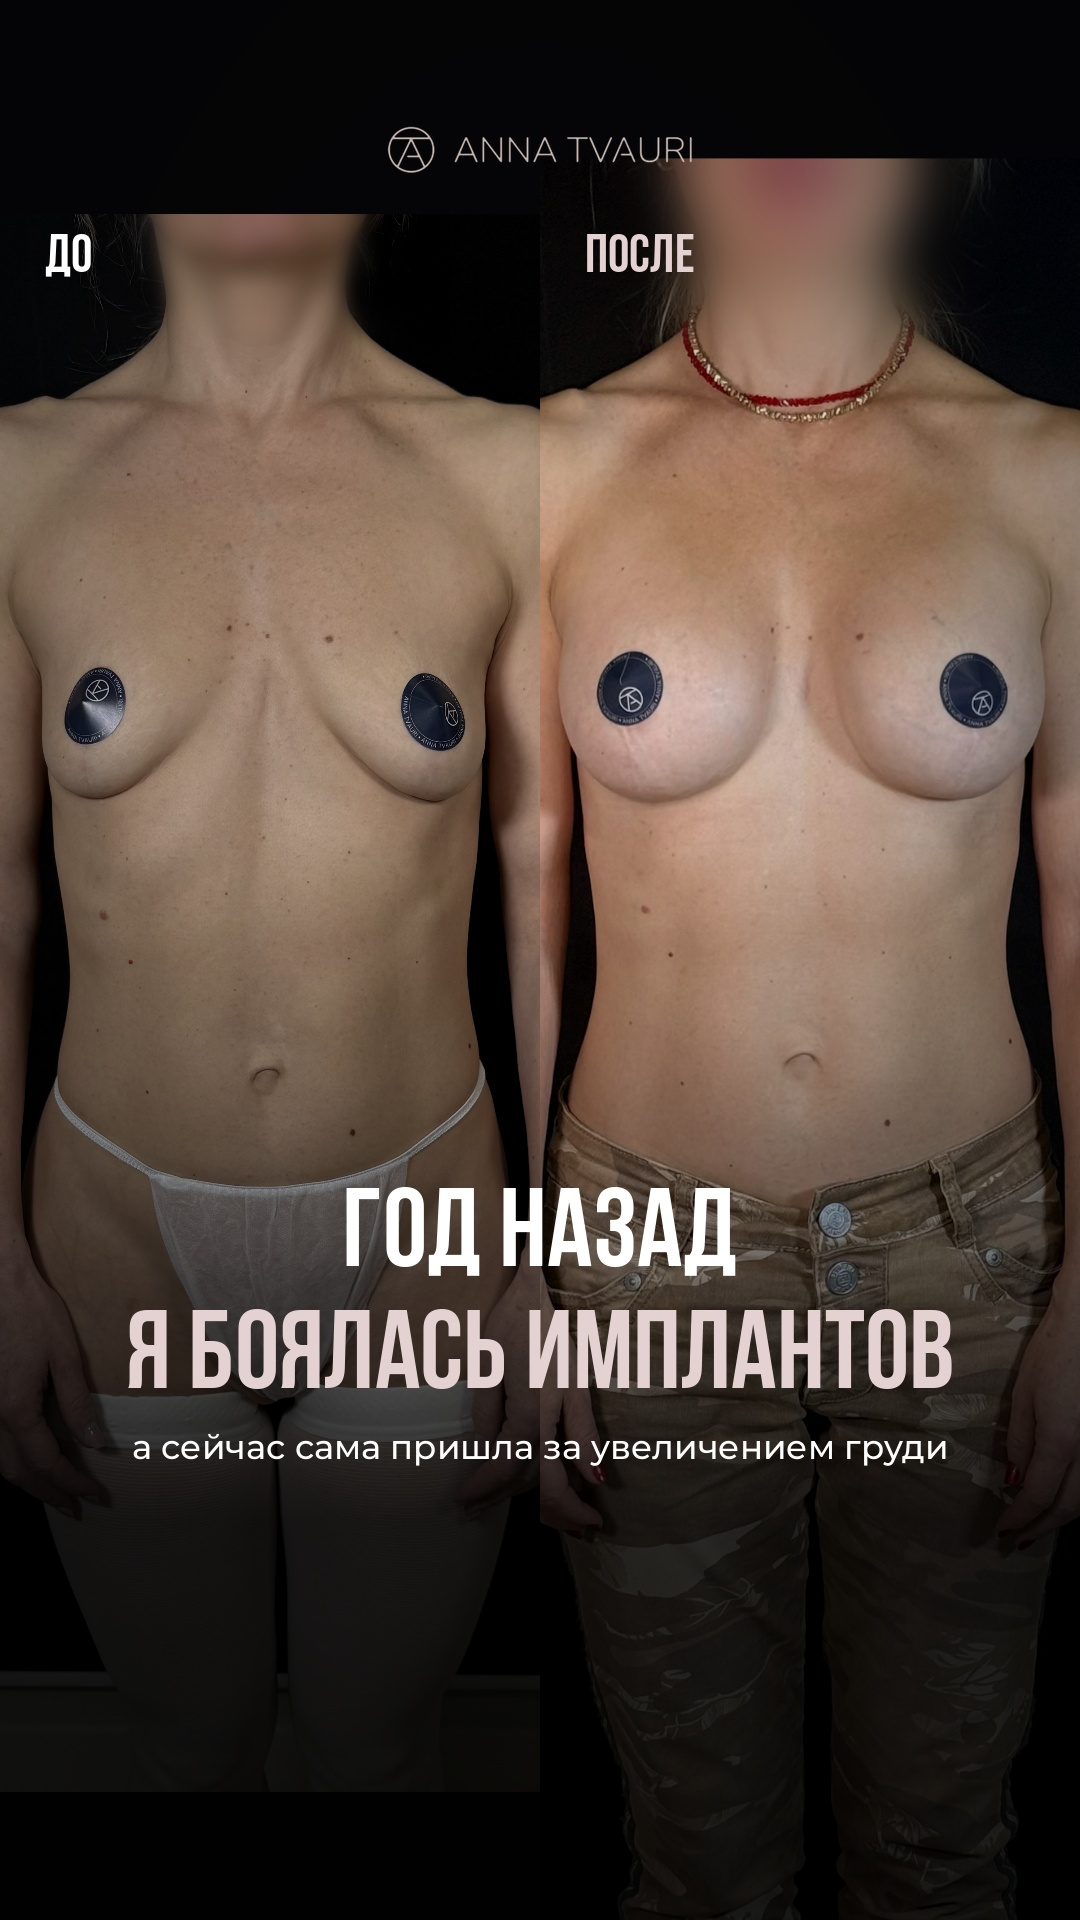
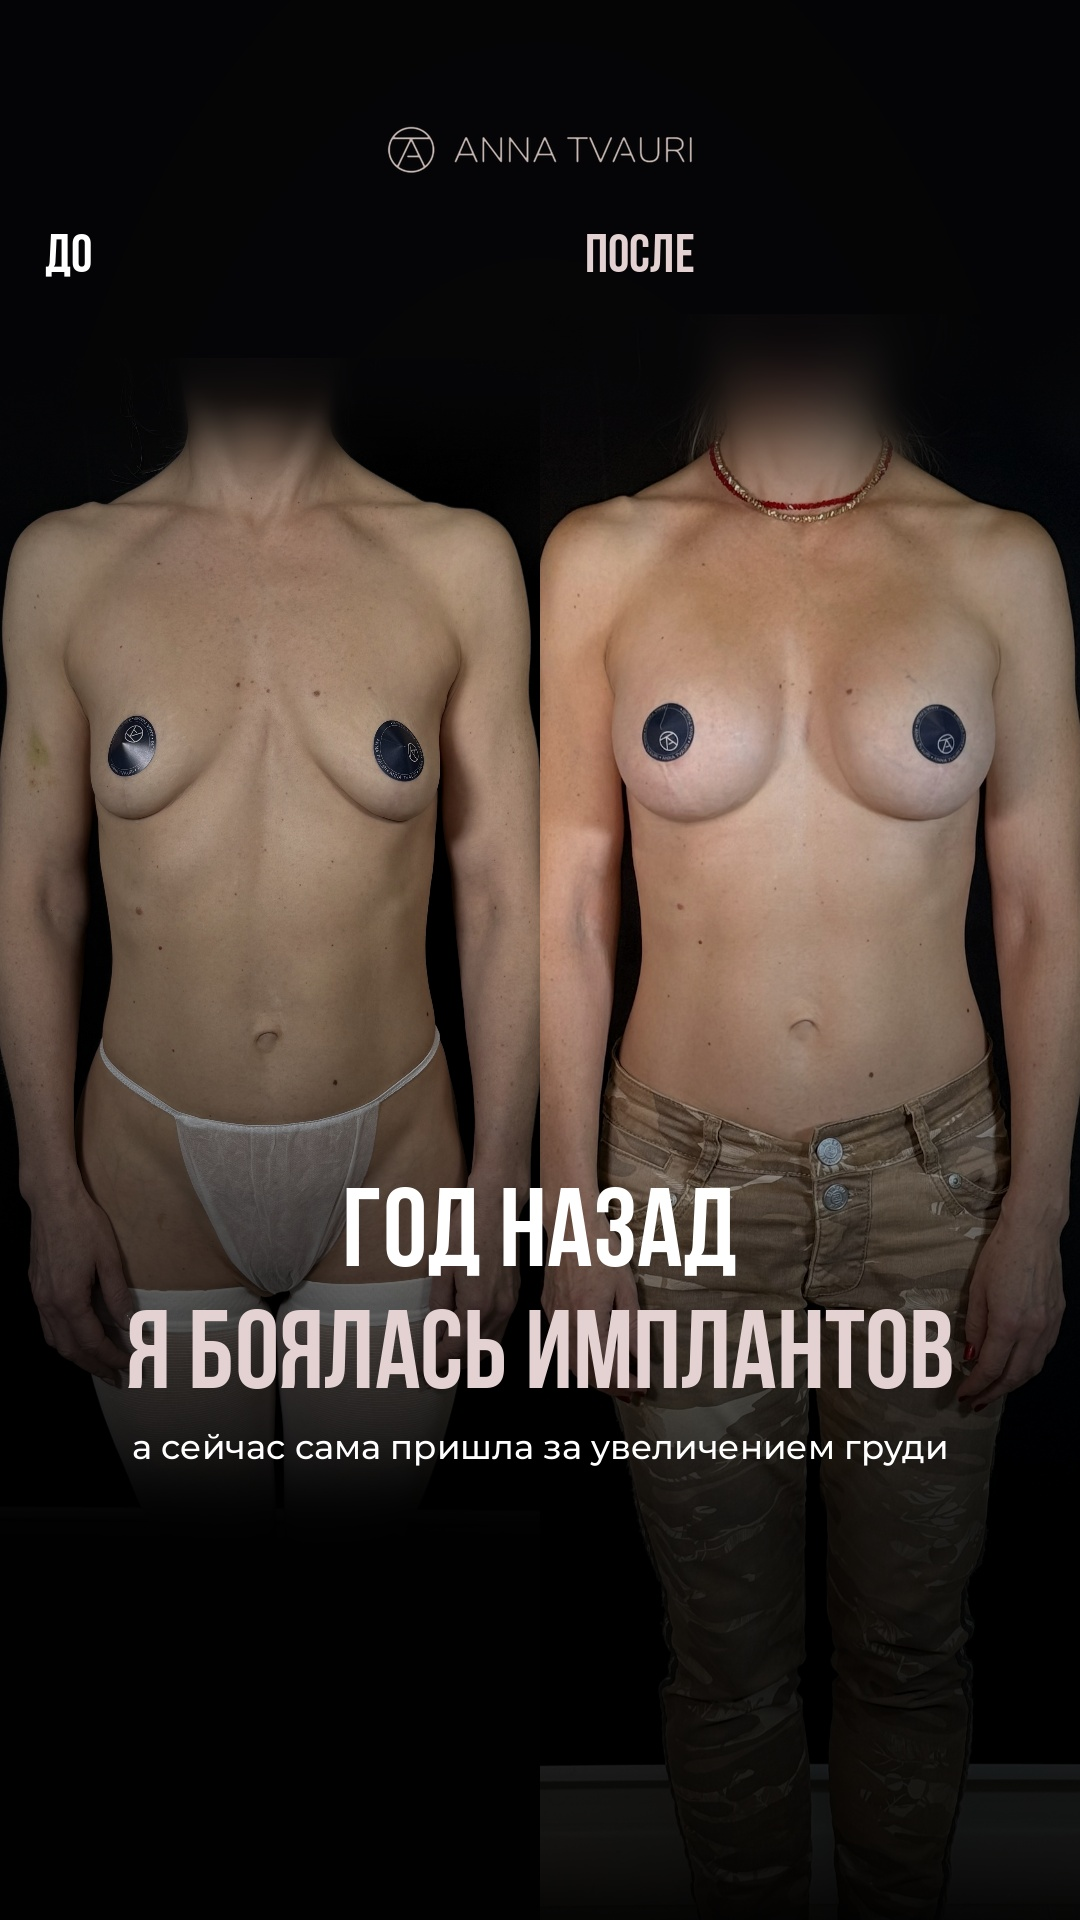
Cover: zoomed out so more of the body is visible
Claude-Session: https://claude.ai/code/session_01WwhZiMgoJM3MQocuuEgczm

diff --git a/tools/reel_lipo_to_implants_cover.py b/tools/reel_lipo_to_implants_cover.py
@@ -1,7 +1,12 @@
 exec(open("reel.py").read().split('if __name__ == "__main__":')[0])
 TCV = Title([("ГОД НАЗАД", "H"), ("Я БОЯЛАСЬ ИМПЛАНТОВ", "P"), ("а сейчас сама пришла за увеличением груди", "S")], 112)
 DEFER[0] = True; PENDING.clear(); LIGHT[0] = False
-a_ = body_view(BF["f"], SHO[("B", "f")], 520, 470, (540, H)); b_ = body_view(AF["f"], SHO[("A", "f")], 520, 470, (540, H))
+def soft(img, sh):
+    h, w = img.shape[:2]; m = np.zeros((h, w), np.uint8); bd = int(h * 0.06); m[bd:h - int(h * 0.1), :] = 255
+    m = cv2.GaussianBlur(m, (0, 0), h * 0.03); mm = np.repeat(m[..., None], 3, 2)
+    return body_view(img, sh, 410, 560, (540, H)), body_view(mm, sh, 410, 560, (540, H))[..., :1]
+(a_, ma), (b_, mb) = soft(BF["f"], SHO[("B", "f")]), soft(AF["f"], SHO[("A", "f")])
+bgc = np.float32([16, 16, 18]) / 255; a_ = a_ * ma + bgc * (1 - ma); b_ = b_ * mb + bgc * (1 - mb)
 fr = np.concatenate([a_, b_], 1); fr = look(fr, 99); fr = fr * (1 - HAZE)
 chip(fr, CH_DO, 40, 228, 9, 0); chip(fr, CH_PO, 580, 228, 9, 0)
 TCV.draw(fr, 1180, 9, 0)
